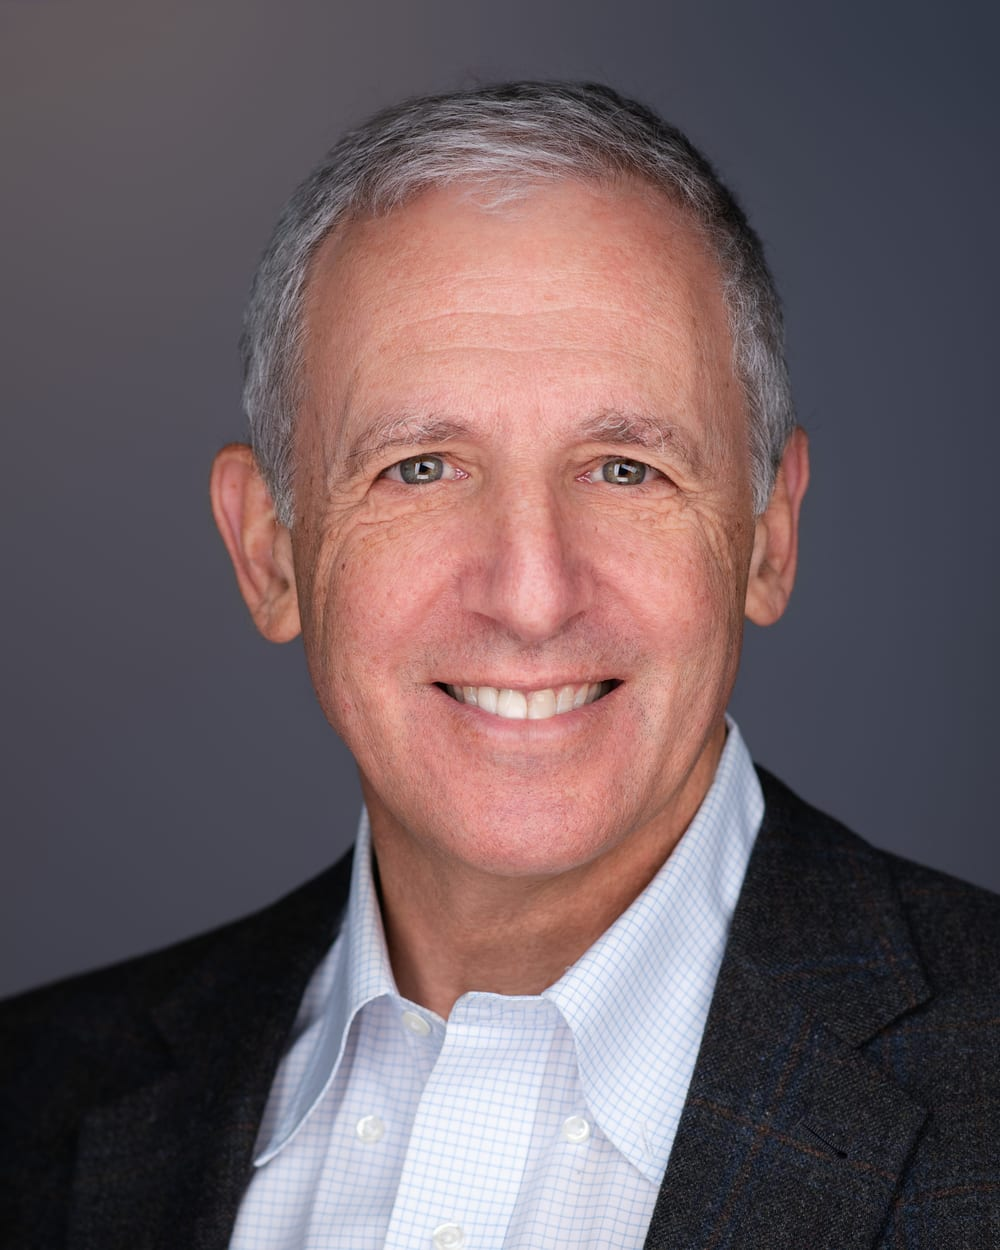
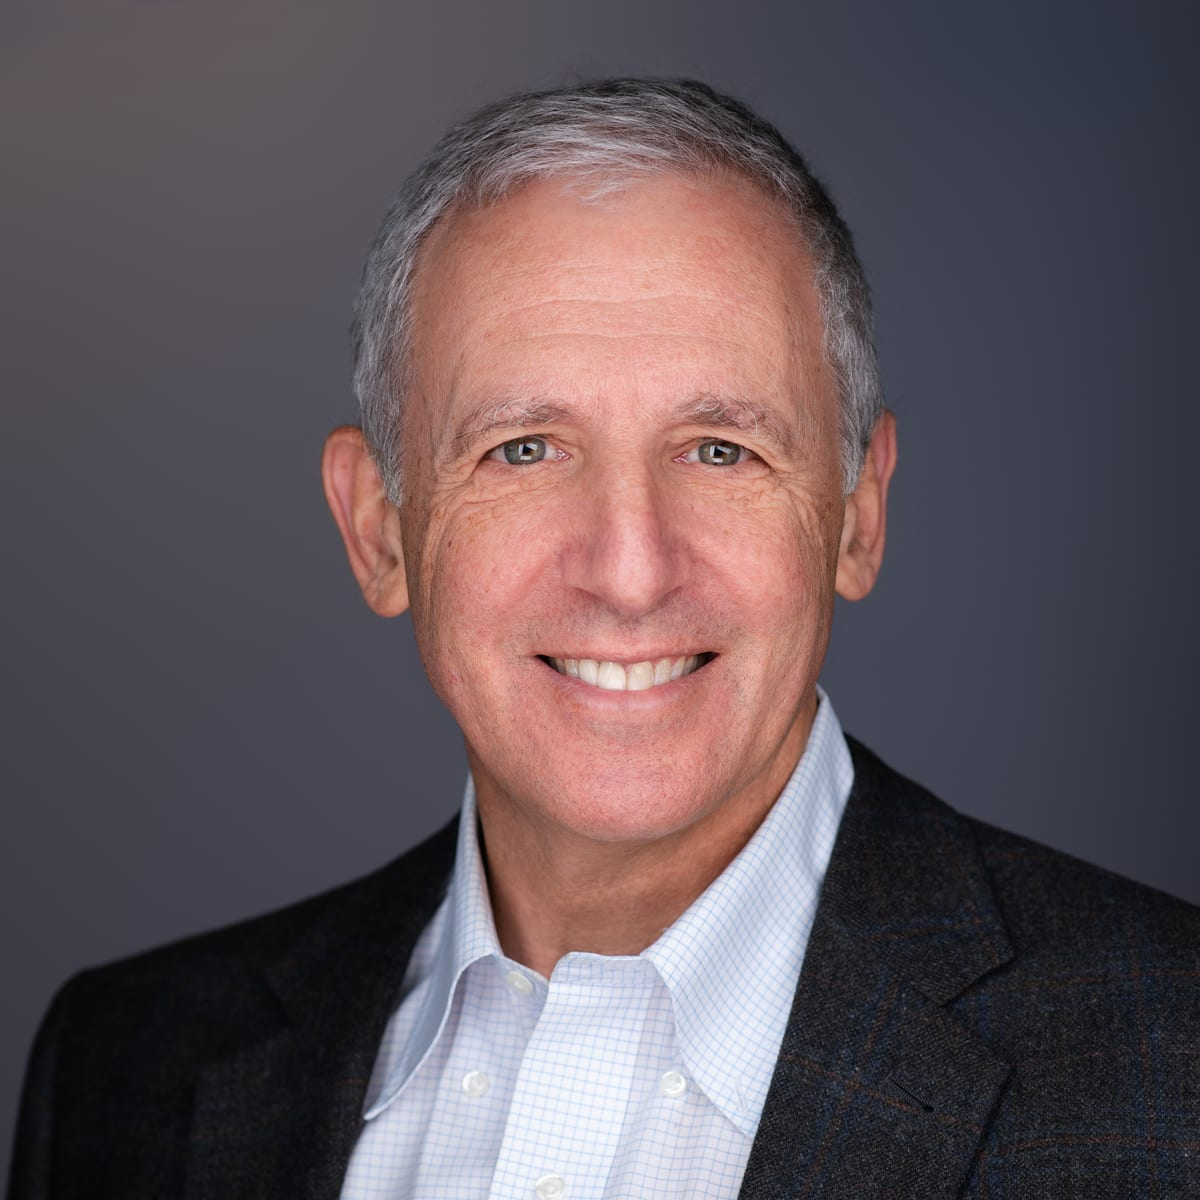
Kaiser case study: square full-height crops so headshots sit further back

Changed region(s): [[0.0, 0.0617, 1.0, 1.0], [0.868, 0.8017, 0.93, 0.8325]]

diff --git a/app/work/kaiser-innovations-team-headshots/page.tsx b/app/work/kaiser-innovations-team-headshots/page.tsx
@@ -26,7 +26,7 @@ export const metadata: Metadata = {
       {
         url: 'https://rojasphotography.net/images/work/kaiser-innovations-team/kaiser-team-headshots-gray-white.jpg',
         width: 1600,
-        height: 1000,
+        height: 800,
         alt: 'The same Kaiser Permanente team headshot on a gray background and a white background',
       },
     ],
@@ -130,7 +130,7 @@ export default function KaiserInnovationsTeamHeadshotsPage() {
               <div className="grid md:grid-cols-2 gap-x-8 gap-y-10">
                 {pairs.map((p) => (
                   <figure key={p.id} className="grid grid-cols-2 gap-2">
-                    <div className="relative aspect-[4/5] overflow-hidden rounded-l-xl bg-gray-300">
+                    <div className="relative aspect-square overflow-hidden rounded-l-xl bg-gray-300">
                       <Image
                         src={p.gray}
                         alt="Kaiser Permanente Innovations team headshot on a gray background, Pleasanton"
@@ -139,7 +139,7 @@ export default function KaiserInnovationsTeamHeadshotsPage() {
                         className="object-cover"
                       />
                     </div>
-                    <div className="relative aspect-[4/5] overflow-hidden rounded-r-xl bg-gray-100">
+                    <div className="relative aspect-square overflow-hidden rounded-r-xl bg-gray-100">
                       <Image
                         src={p.white}
                         alt="The same team member's headshot on a white background, from the same sitting"
@@ -160,7 +160,7 @@ export default function KaiserInnovationsTeamHeadshotsPage() {
               <SectionReveal>
                 <h2 id="review-heading" className="text-3xl md:text-4xl text-center text-[var(--color-text-dark)] mb-12">In Her Words</h2>
                 <figure className="grid md:grid-cols-[220px_1fr] gap-8 items-center">
-                  <div className="relative aspect-[4/5] w-48 md:w-full mx-auto overflow-hidden rounded-xl bg-gray-300">
+                  <div className="relative aspect-square w-48 md:w-full mx-auto overflow-hidden rounded-xl bg-gray-300">
                     <Image
                       src="/images/work/kaiser-innovations-team/kaiser-team-headshot-07-gray.jpg"
                       alt="Sandra Mello, Admin Specialist at the Kaiser Business Campus in Pleasanton"
